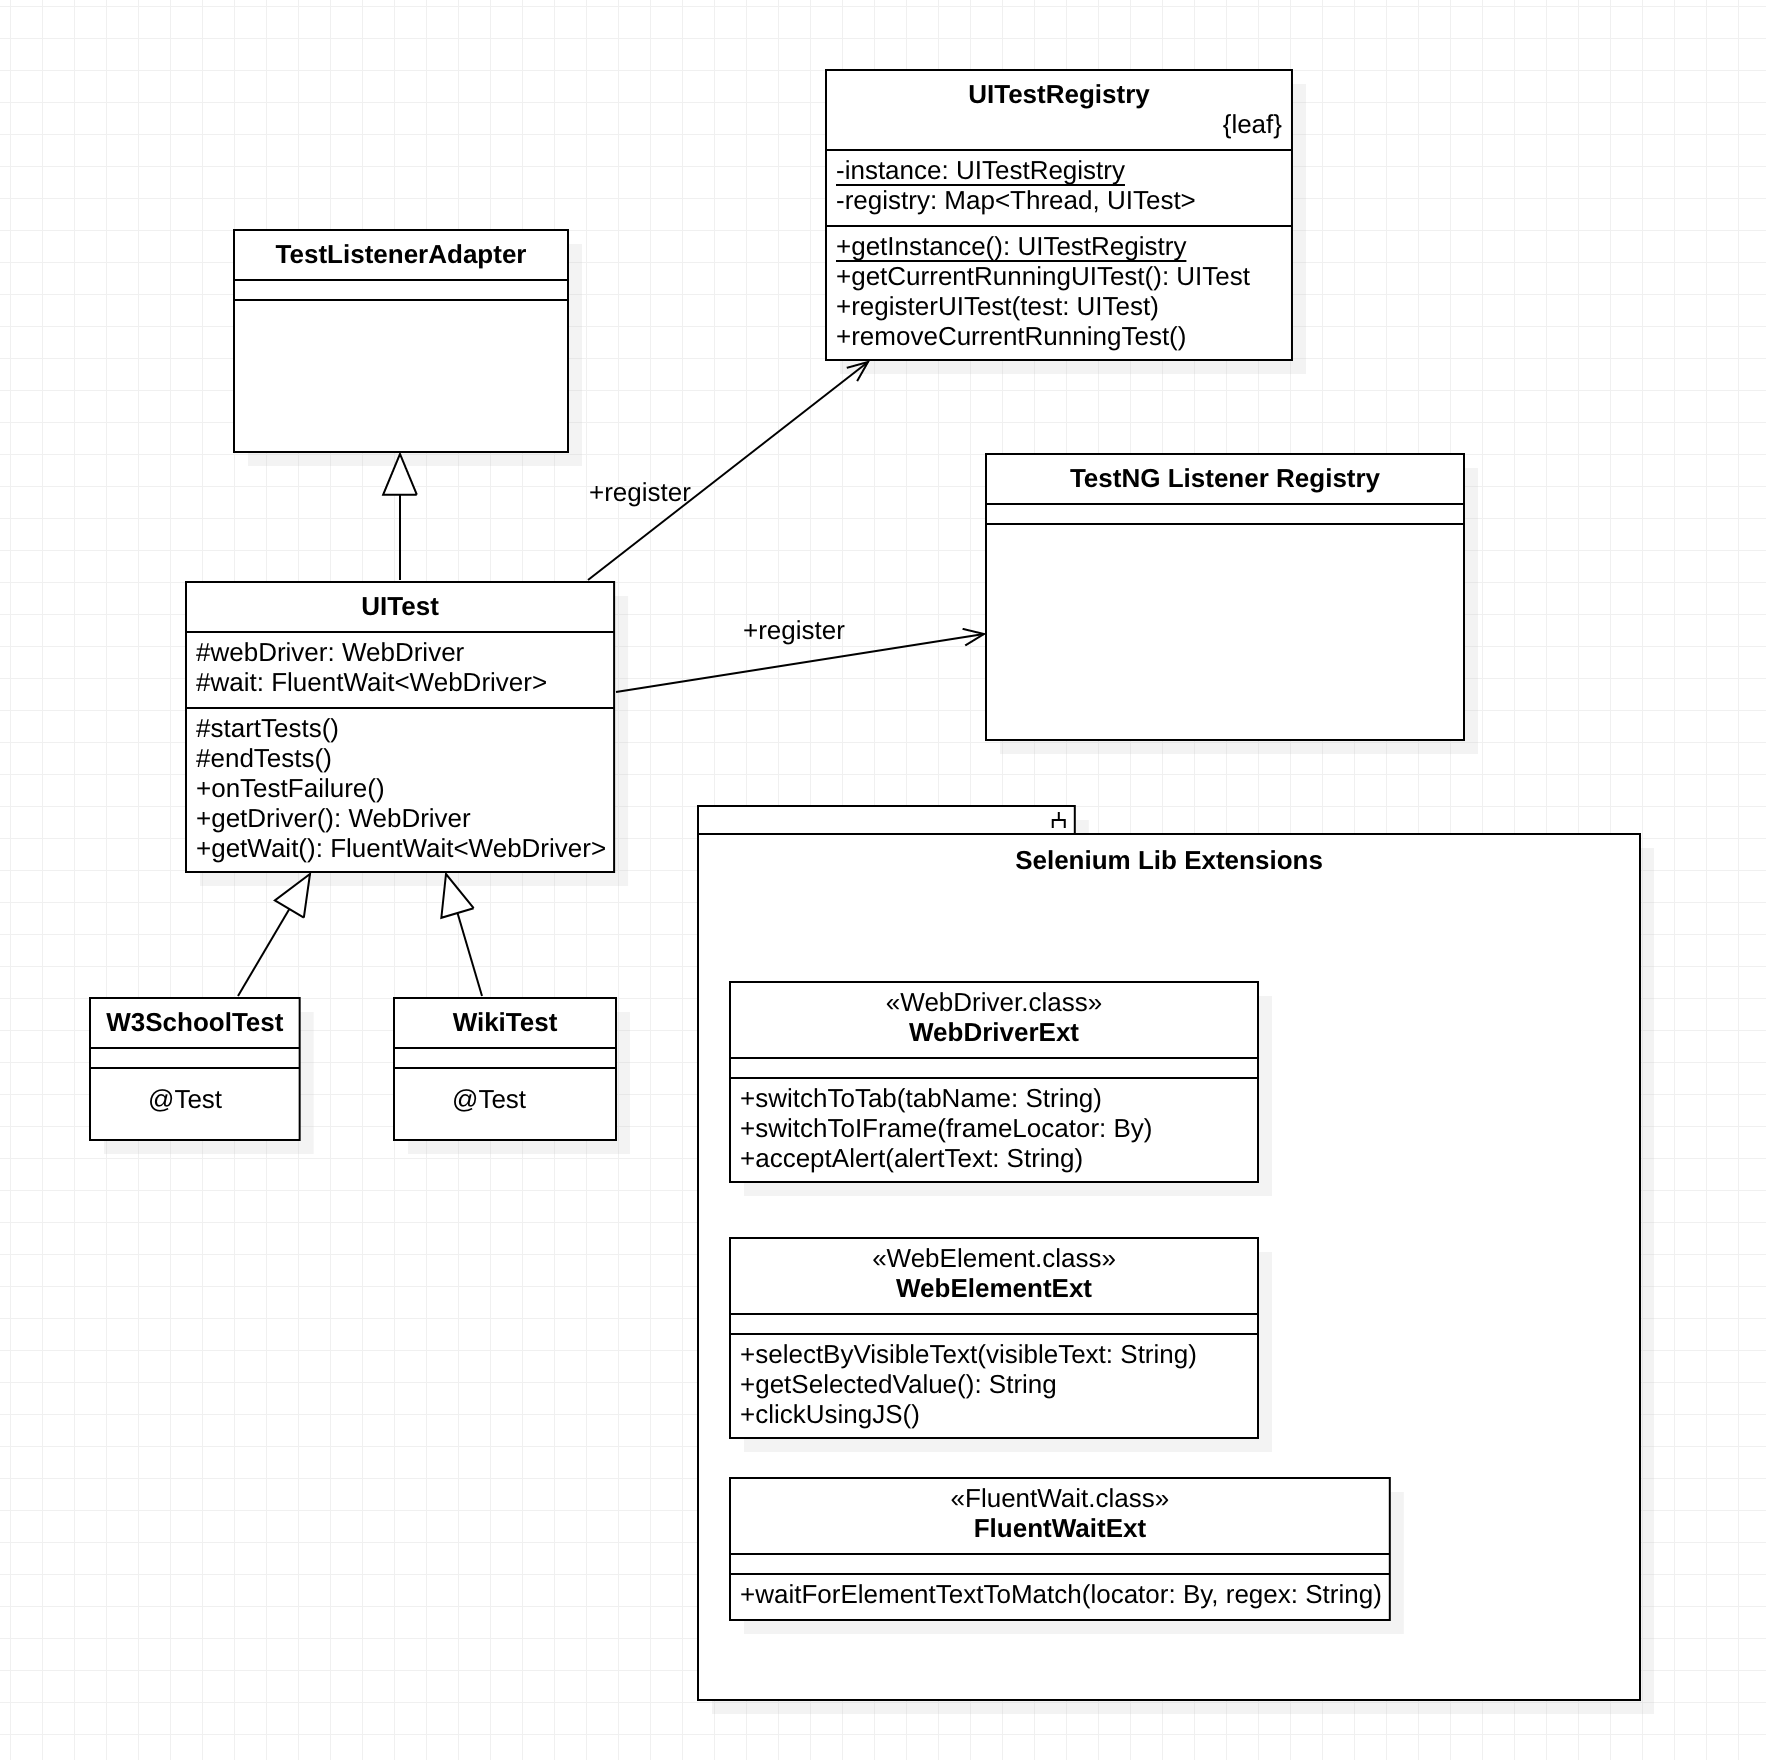
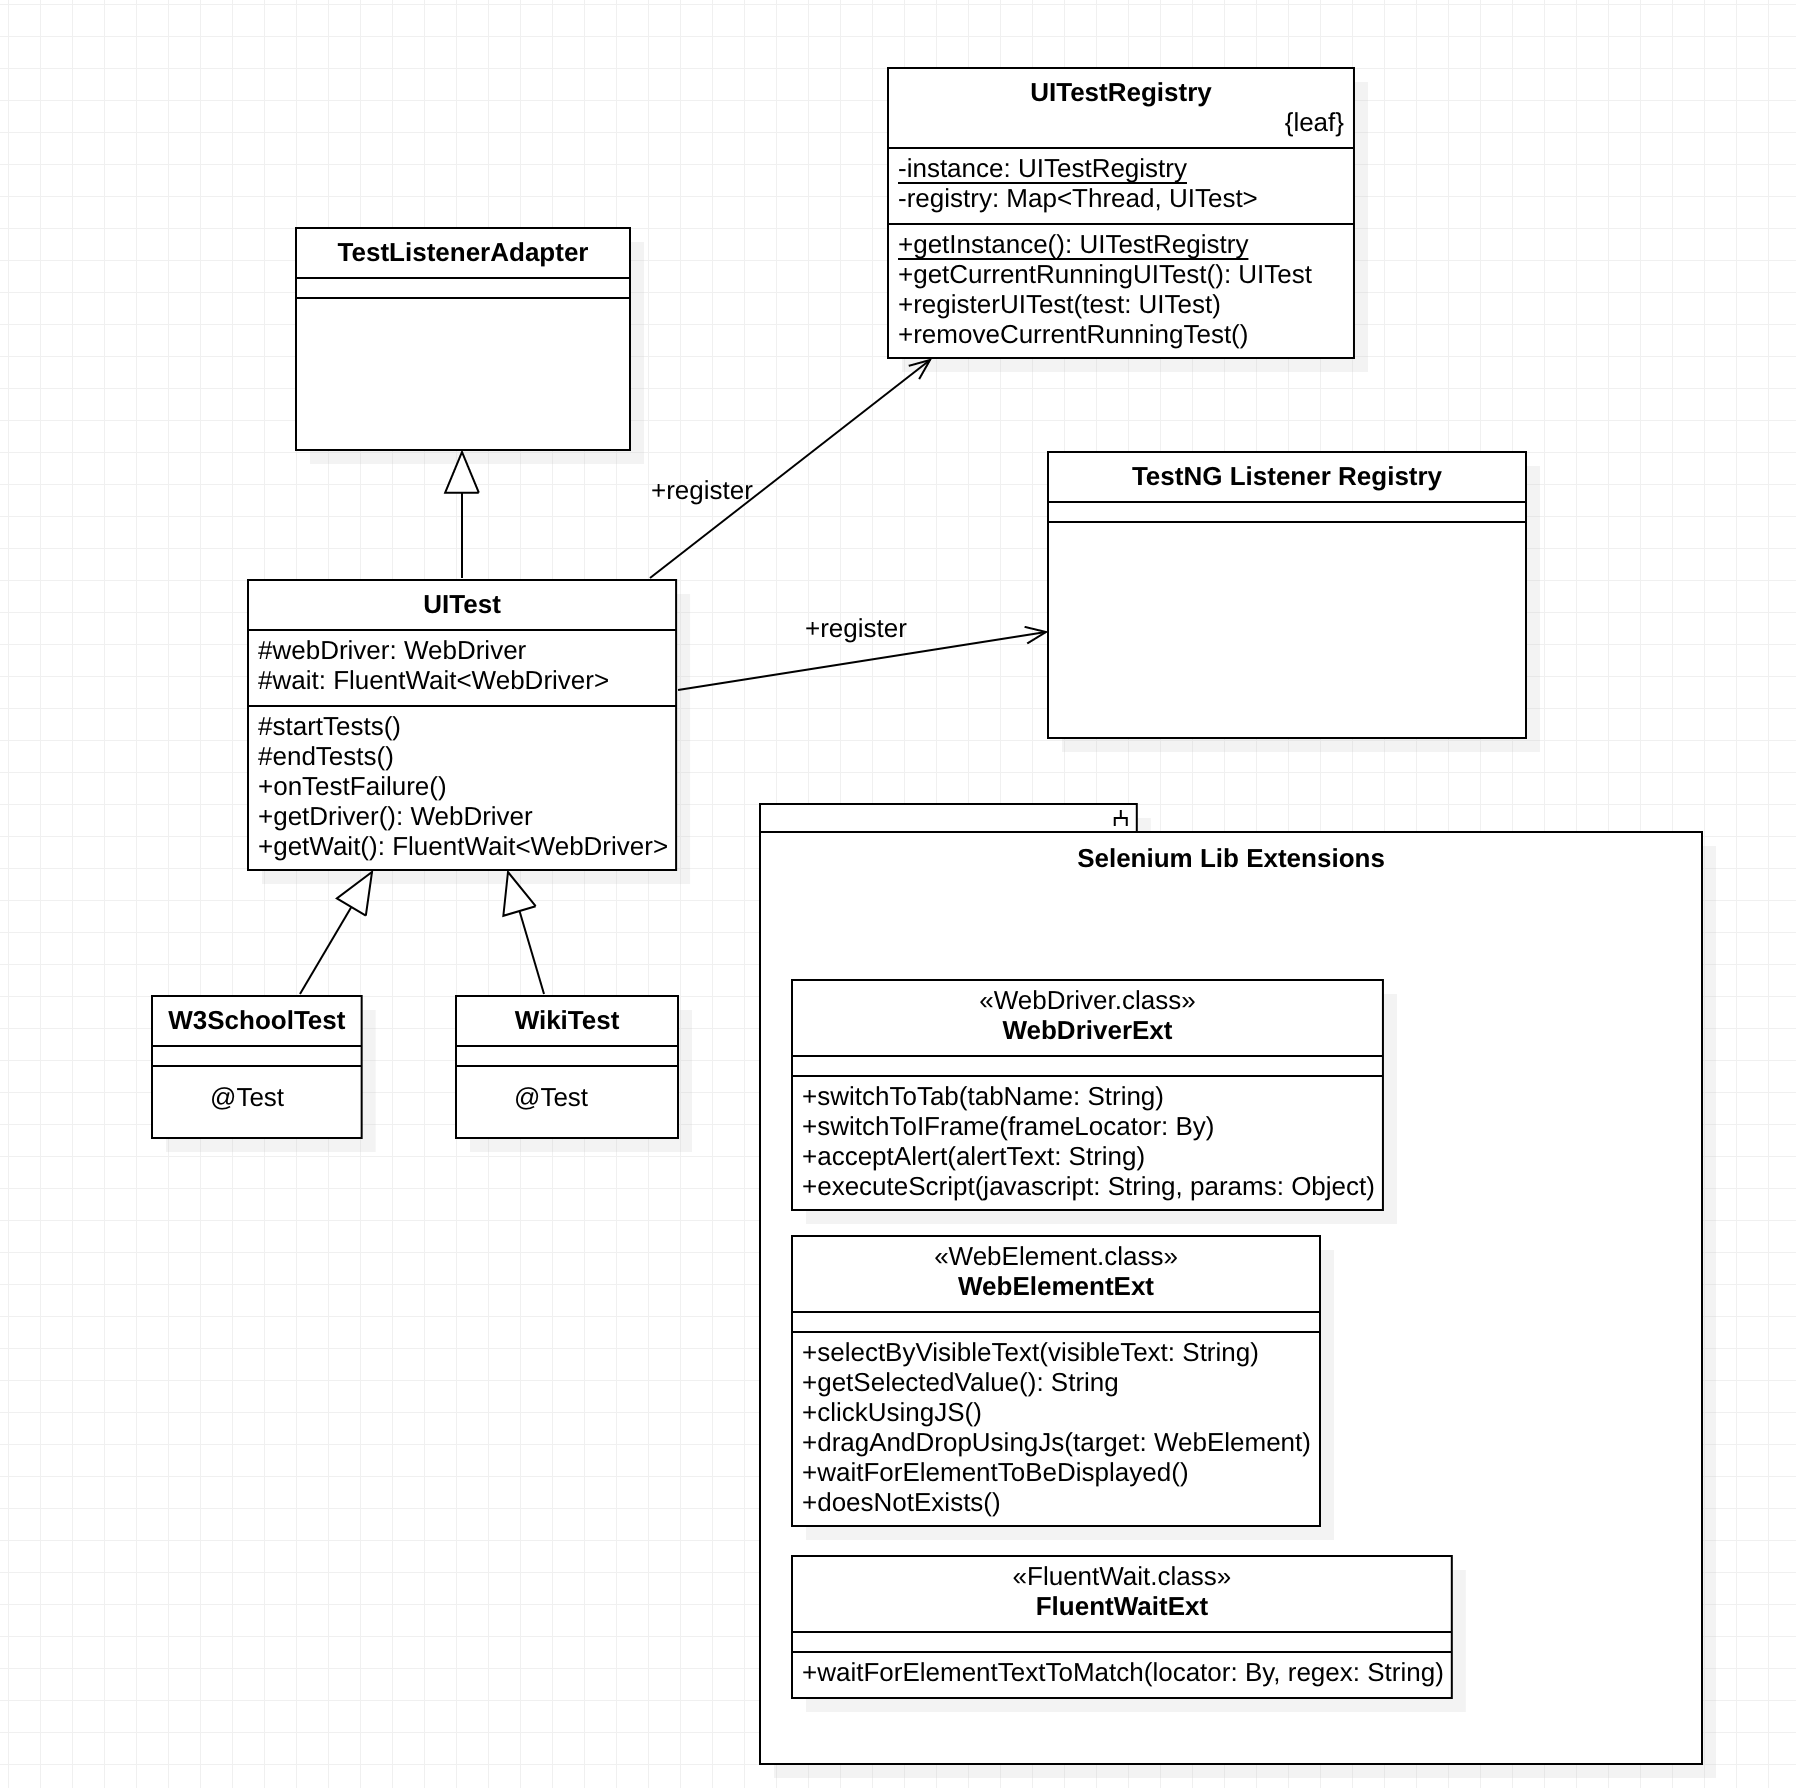
Ability to do drag and drop using js as default selenium implementation was brittle.

diff --git a/src/main/resources/js/dragAndDrop.js b/src/main/resources/js/dragAndDrop.js
@@ -1,0 +1,23 @@
+var src=arguments[0],tgt=arguments[1];
+var dataTransfer={
+    dropEffect:'',effectAllowed:'all',files:[],items:{},types:[],
+    setData:function(format,data){
+             this.items[format]=data;
+             this.types.append(format);
+            },
+    getData:function(format){
+            return this.items[format];
+    },
+    clearData:function(format){}
+};
+var emit=function(event,target){
+var evt=document.createEvent('Event');
+evt.initEvent(event,true,false);
+evt.dataTransfer=dataTransfer;
+target.dispatchEvent(evt);
+};
+emit('dragstart',src);
+emit('dragenter',tgt);
+emit('dragover',tgt);
+emit('drop',tgt);
+emit('dragend',src);

diff --git a/src/main/java/extensions/org/openqa/selenium/WebElement/WebElementExt.java b/src/main/java/extensions/org/openqa/selenium/WebElement/WebElementExt.java
@@ -1,29 +1,57 @@
 package extensions.org.openqa.selenium.WebElement;
 
+import helper.CommonUtils;
+import helper.UITest;
 import helper.UITestRegistry;
 import manifold.ext.rt.api.Extension;
 import manifold.ext.rt.api.This;
-import org.openqa.selenium.By;
-import org.openqa.selenium.JavascriptExecutor;
-import org.openqa.selenium.WebDriver;
-import org.openqa.selenium.WebElement;
+import org.openqa.selenium.*;
+import org.openqa.selenium.support.ui.ExpectedConditions;
+import org.openqa.selenium.support.ui.FluentWait;
 import org.openqa.selenium.support.ui.Select;
+import org.openqa.selenium.support.ui.WebDriverWait;
+import org.testng.Assert;
+
+import java.util.concurrent.TimeUnit;
 
 @Extension
 public class WebElementExt {
 
-    public static void selectByVisibleText(@This WebElement thiz, String value){
+    public static void selectByVisibleText(@This WebElement thiz, String value) {
         Select select = new Select(thiz);
         select.selectByVisibleText(value);
     }
 
-    public static String getSelectedValue(@This WebElement thiz){
-        if(thiz.getTagName().equalsIgnoreCase("select")) return new Select(thiz).getFirstSelectedOption().getText();
+    public static String getSelectedValue(@This WebElement thiz) {
+        if (thiz.getTagName().equalsIgnoreCase("select")) return new Select(thiz).getFirstSelectedOption().getText();
         else return thiz.getText();
     }
 
     public static void clickUsingJS(@This WebElement thiz) {
         WebDriver driver = UITestRegistry.getInstance().getCurrentRunningUITest().getDriver();
-        ((JavascriptExecutor) driver).executeScript("arguments[0].click()", thiz);
+        driver.executeScript("arguments[0].click()", thiz);
+    }
+
+    public static void dragAndDropUsingJs(@This WebElement source, WebElement destination) {
+        String dragAndDropJS = CommonUtils.readFileFromClasspath("js/dragAndDrop.js");
+        WebDriver driver = UITestRegistry.getInstance().getCurrentRunningUITest().getDriver();
+        source.waitForElementToBeDisplayed();
+        destination.waitForElementToBeDisplayed();
+        driver.executeScript(dragAndDropJS,source,destination);
+    }
+
+    public static void waitForElementToBeDisplayed(@This WebElement elm){
+        FluentWait<WebDriver> wait = UITestRegistry.getInstance().getCurrentRunningUITest().getWait();
+        wait.until(ExpectedConditions.visibilityOf(elm));
+    }
+
+    public static void doesNotExists(@This WebElement thiz){
+        WebDriver driver = UITestRegistry.getInstance().getCurrentRunningUITest().getDriver();
+        driver.manage().timeouts().implicitlyWait(0, TimeUnit.SECONDS);
+        boolean elmDoesNotExists = false;
+        try { thiz.click(); }
+        catch (NoSuchElementException exception) {  elmDoesNotExists = true; }
+        finally { driver.manage().timeouts().implicitlyWait(UITest.defaultImplicitWait, TimeUnit.SECONDS); }
+        Assert.assertEquals(elmDoesNotExists, true);
     }
 }

diff --git a/src/test/java/tests/W3SchoolTest.java b/src/test/java/tests/W3SchoolTest.java
@@ -1,11 +1,18 @@
 package tests;
 
+import helper.UITest;
 import org.openqa.selenium.By;
+import org.openqa.selenium.WebElement;
+import org.openqa.selenium.support.FindBy;
 import org.testng.Assert;
 import org.testng.annotations.Test;
-import helper.UITest;
 
 public class W3SchoolTest extends UITest {
+
+    @FindBy(css="#drag1[draggable]") WebElement img_w3schoolDraggable;
+    @FindBy(css="#div1[ondrop]") WebElement w3schoolDropTarget;
+    @FindBy(css="#div1[ondrop] img") WebElement img_underDropZone;
+    @FindBy(css=".trytopnav .w3-hover-text-green") WebElement btn_RunJS;
 
     @Test
     public void w3schoolAlertPage() {
@@ -33,5 +40,19 @@ public class W3SchoolTest extends UITest {
         Assert.assertEquals(driver.findElement(By.id("cars")).getSelectedValue(), "Opel");
         driver.findElement(By.id("cars")).selectByVisibleText("Volvo");
         Assert.assertEquals(driver.findElement(By.id("cars")).getSelectedValue(), "Volvo");
+    }
+
+    @Test
+    public void w3schoolDragAndDrop() throws InterruptedException {
+        driver.get("https://www.w3schools.com/html/tryit.asp?filename=tryhtml5_draganddrop");
+        driver.switchToIFrame(By.id("iframeResult"));
+        img_w3schoolDraggable.dragAndDropUsingJs(w3schoolDropTarget);
+        img_underDropZone.waitForElementToBeDisplayed();
+        driver.switchTo().defaultContent();
+        btn_RunJS.click();
+        driver.switchToIFrame(By.id("iframeResult"));
+        img_underDropZone.doesNotExists();
+        img_w3schoolDraggable.dragAndDropUsingJs(w3schoolDropTarget);
+        img_underDropZone.waitForElementToBeDisplayed();
     }
 }

diff --git a/src/main/java/helper/UITest.java b/src/main/java/helper/UITest.java
@@ -2,6 +2,7 @@ package helper;
 
 import org.openqa.selenium.WebDriver;
 import org.openqa.selenium.chrome.ChromeDriver;
+import org.openqa.selenium.support.PageFactory;
 import org.openqa.selenium.support.ui.FluentWait;
 import org.openqa.selenium.support.ui.WebDriverWait;
 import org.testng.ITestResult;
@@ -16,13 +17,15 @@ public class UITest extends TestListenerAdapter
 {
     protected WebDriver driver;
     protected FluentWait<WebDriver> wait;
+    public static final int defaultImplicitWait = 10;
 
     @BeforeClass
     protected void startTests() {
         this.driver = new ChromeDriver();
-        driver.manage().timeouts().implicitlyWait(10, TimeUnit.SECONDS);
+        driver.manage().timeouts().implicitlyWait(defaultImplicitWait, TimeUnit.SECONDS);
         driver.manage().window().maximize();
-        wait = new WebDriverWait(driver, 10).pollingEvery(Duration.ofSeconds(2));
+        wait = new WebDriverWait(driver, defaultImplicitWait).pollingEvery(Duration.ofSeconds(2));
+        PageFactory.initElements(driver, this);
         UITestRegistry.getInstance().registerUITest(this);
     }
 
@@ -51,4 +54,5 @@ public class UITest extends TestListenerAdapter
     public FluentWait<WebDriver> getWait(){
         return wait;
     }
+
 }

diff --git a/src/main/java/extensions/org/openqa/selenium/WebDriver/WebDriverExt.java b/src/main/java/extensions/org/openqa/selenium/WebDriver/WebDriverExt.java
@@ -3,15 +3,14 @@ package extensions.org.openqa.selenium.WebDriver;
 import helper.UITestRegistry;
 import manifold.ext.rt.api.Extension;
 import manifold.ext.rt.api.This;
-import org.openqa.selenium.Alert;
-import org.openqa.selenium.By;
-import org.openqa.selenium.JavascriptExecutor;
-import org.openqa.selenium.WebDriver;
+import org.openqa.selenium.*;
 import org.openqa.selenium.support.ui.ExpectedConditions;
 import org.openqa.selenium.support.ui.FluentWait;
+import org.openqa.selenium.support.ui.WebDriverWait;
 import org.testng.Assert;
 
 import java.util.Set;
+import java.util.concurrent.TimeUnit;
 
 @Extension
 public class WebDriverExt {
@@ -42,4 +41,9 @@ public class WebDriverExt {
         Assert.assertTrue(w3schoolAlert.getText().contains(alertText));
         w3schoolAlert.accept();
     }
+
+    public static void executeScript(@This WebDriver thiz, String script, Object ... args){
+        ((JavascriptExecutor)thiz).executeScript(script, args);
+    }
+
 }

diff --git a/src/main/java/helper/CommonUtils.java b/src/main/java/helper/CommonUtils.java
@@ -1,0 +1,22 @@
+package helper;
+
+import java.io.File;
+import java.io.IOException;
+import java.net.URISyntaxException;
+import java.net.URL;
+import java.nio.file.Files;
+import java.nio.file.Paths;
+
+public class CommonUtils {
+    public static String readFileFromClasspath(String resourceName){
+        URL urlToResource = CommonUtils.class.getClassLoader().getResource(resourceName);
+        if(urlToResource == null) throw new RuntimeException(resourceName+" does not exists");
+        try {
+            File file = new File(urlToResource.toURI());
+            byte[] data = Files.readAllBytes(Paths.get(file.toURI()));
+            return new String(data);
+        } catch (URISyntaxException | IOException e) {
+            throw new RuntimeException(e);
+        }
+    }
+}
